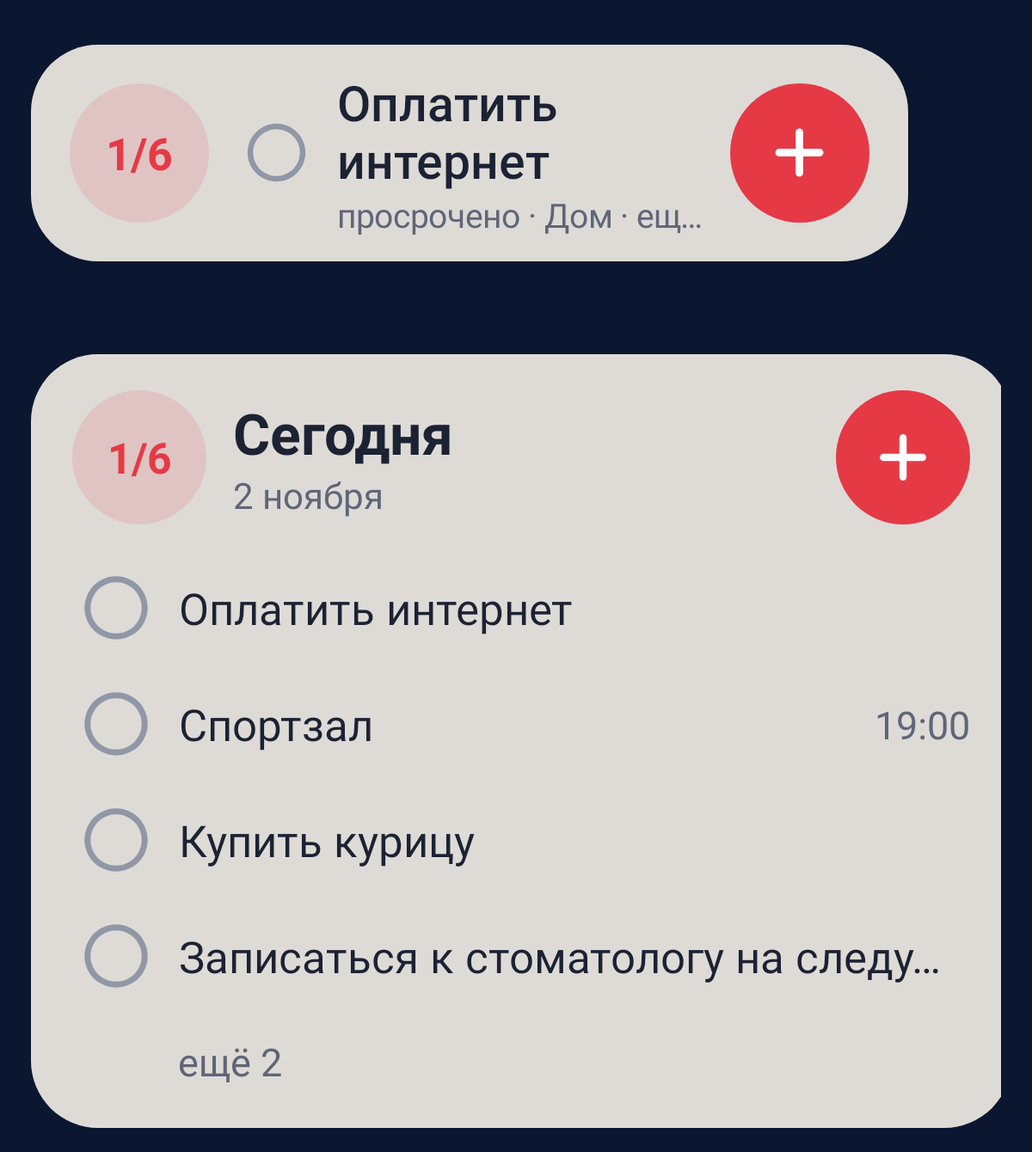
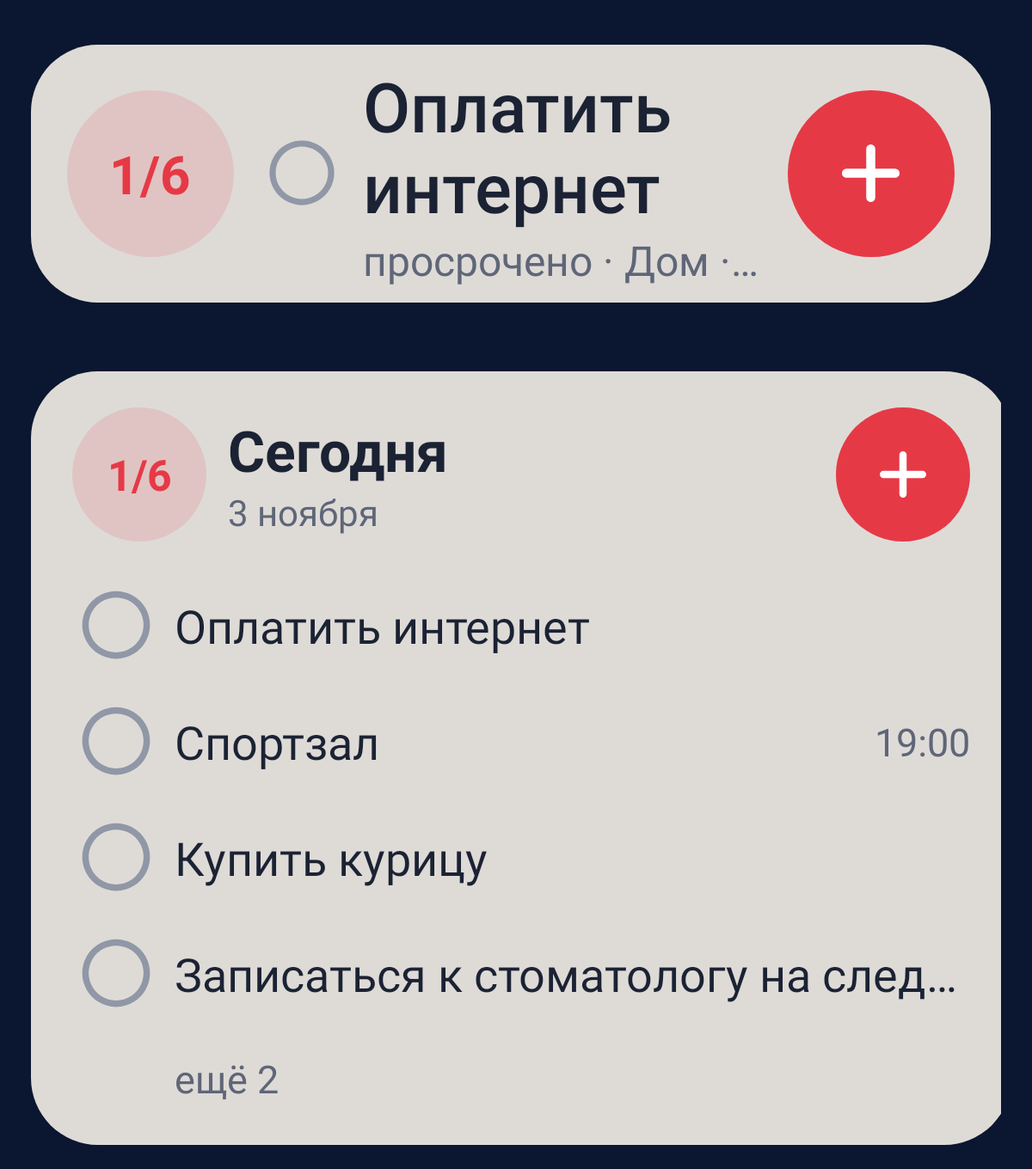
Version 1.0.2: widget self-refresh, bigger title, snooze test

diff --git a/app/src/main/java/com/woody/planner/widget/WidgetText.kt b/app/src/main/java/com/woody/planner/widget/WidgetText.kt
@@ -5,50 +5,63 @@ internal data class TitleFit(val text: String, val size: Float, val lines: Int, 
 
 /**
  * Подбор кегля названия под место в виджете. Виджет не умеет мерить текст (это RemoteViews),
- * поэтому ширина считается по средней ширине буквы — с запасом, а остаток подстрахует многоточие.
+ * поэтому ширина считается по средней ширине буквы и по тому, как слова лягут по строкам,
+ * а остаток подстрахует многоточие.
  */
 internal object WidgetText {
     /** Длиннее — обрезаем по словам: на рабочем столе хватает сути. */
     const val MaxWords = 5
     private const val CharWidth = 0.58f
-    /** Высота строки TextView в долях кегля, с отступами шрифта — с запасом, чтобы низ не обрезался. */
-    private const val LineHeight = 1.3f
-    /** Перенос по словам оставляет пустоту в конце первой строки. */
-    private const val WrapSlack = 0.85f
+    /** Межстрочный интервал Roboto в долях кегля и отступы шрифта у блока текста (сверху и снизу вместе). */
+    private const val Line = 1.17f
+    private const val Padding = 0.2f
     private const val MinSize = 13f
+    private const val MaxLines = 3
 
     fun shorten(title: String): String {
         val words = title.trim().split(Regex("\\s+")).filter { it.isNotEmpty() }
         return if (words.size > MaxWords) words.take(MaxWords).joinToString(" ") + "…" else words.joinToString(" ")
     }
 
-    fun metaSize(size: Float): Float = (size * 0.68f).coerceIn(11f, 21f)
+    fun metaSize(size: Float): Float = (size * 0.6f).coerceIn(11f, 19f)
 
-    /** Самый крупный кегль, с которым название помещается в [width]×[height] dp. */
-    fun fit(title: String, width: Float, height: Float): TitleFit {
-        val text = shorten(title)
-        val max = (height * 0.4f).coerceIn(15f, 32f)
-        // Короткое — одной строкой и крупно; длинное — в две строки; подпись (время, категория)
-        // убираем только если иначе название не помещается.
-        val attempts = listOf(
-            Attempt(lines = 1, meta = true, min = max * 0.8f),
-            Attempt(lines = 2, meta = true, min = MinSize),
-            Attempt(lines = 1, meta = true, min = MinSize),
-            Attempt(lines = 2, meta = false, min = MinSize),
-        )
-        for (attempt in attempts) {
-            var size = max
-            while (size >= attempt.min) {
-                val perLine = width / (size * CharWidth)
-                val capacity = if (attempt.lines == 1) perLine else perLine * 2 * WrapSlack
-                val needed = attempt.lines * size * LineHeight + if (attempt.meta) metaSize(size) * LineHeight else 0f
-                if (text.length <= capacity && needed <= height) return TitleFit(text, size, attempt.lines, metaSize(size), attempt.meta)
-                size -= 0.5f
-            }
+    /** Высота блока текста из [lines] строк кеглем [size]. */
+    private fun blockHeight(lines: Int, size: Float) = size * (Line * lines + Padding)
+
+    /** Самая длинная строка (в символах) при лучшей раскладке слов на [lines] строк. */
+    internal fun longestLine(words: List<String>, lines: Int): Int {
+        fun len(from: Int, to: Int) = words.subList(from, to).sumOf { it.length } + (to - from - 1)
+        val n = words.size
+        return when {
+            lines <= 1 || n <= 1 -> len(0, n)
+            lines == 2 || n == 2 -> (1 until n).minOf { i -> maxOf(len(0, i), len(i, n)) }
+            else -> (1 until n - 1).minOf { i -> (i + 1 until n).minOf { j -> maxOf(len(0, i), len(i, j), len(j, n)) } }
         }
-        val lines = if (2 * MinSize * LineHeight <= height) 2 else 1
-        return TitleFit(text, MinSize, lines, metaSize(MinSize), meta = false)
     }
 
-    private class Attempt(val lines: Int, val meta: Boolean, val min: Float)
+    /** Самый крупный кегль, с которым название (и по возможности подпись) помещается в [width]×[height] dp. */
+    fun fit(title: String, width: Float, height: Float): TitleFit {
+        val text = shorten(title)
+        val words = text.split(" ")
+        val max = (height * 0.5f).coerceIn(15f, 40f)
+        var best: TitleFit? = null
+        // Подпись (время, категория) нужна — без неё обходимся, только если иначе название совсем не влезает.
+        for (meta in listOf(true, false)) {
+            for (lines in 1..minOf(MaxLines, words.size)) {
+                val longest = longestLine(words, lines)
+                var size = minOf(max, width / (longest * CharWidth))
+                while (size >= MinSize) {
+                    val needed = blockHeight(lines, size) + if (meta) blockHeight(1, metaSize(size)) else 0f
+                    if (needed <= height) break
+                    size -= 0.5f
+                }
+                if (size < MinSize) continue
+                val candidate = TitleFit(text, size, lines, metaSize(size), meta)
+                // Строк поменьше, если кегль почти тот же: «Купить хлеб» одной строкой лучше двух.
+                if (best == null || size > best.size * 1.08f) best = candidate
+            }
+            if (best != null) return best
+        }
+        return TitleFit(text, MinSize, if (blockHeight(2, MinSize) <= height) 2 else 1, metaSize(MinSize), meta = false)
+    }
 }

diff --git a/app/src/main/java/com/woody/planner/widget/WidgetUpdater.kt b/app/src/main/java/com/woody/planner/widget/WidgetUpdater.kt
@@ -102,7 +102,13 @@ object WidgetUpdater {
         val widgetIds = ids ?: manager.getAppWidgetIds(ComponentName(app, TodayWidgetReceiver::class.java))
         if (widgetIds.isEmpty()) return@withLock
         widgetIds.forEach { id ->
-            runCatching { manager.updateAppWidget(id, render(app, id, sizesOf(manager.getAppWidgetOptions(id)))) }
+            val sizes = sizesOf(manager.getAppWidgetOptions(id))
+            runCatching { manager.updateAppWidget(id, render(app, id, sizes)) }
+                .recoverCatching {
+                    // Запасной путь: один размер вместо набора — пусть мельче, но виджет не останется пустым.
+                    Log.w("Woody", "widget $id: sized views failed", it)
+                    manager.updateAppWidget(id, render(app, id, sizes.take(1)))
+                }
                 .onFailure { Log.w("Woody", "widget $id", it) }
         }
         scheduleMidnight(app)
@@ -154,18 +160,24 @@ object WidgetUpdater {
     }
 
     private val DefaultSize = DpSize(250.dp, 64.dp)
-    private const val LadderSteps = 4
+    private const val LadderSteps = 3
     /** Не больше 10 вариантов: каждый — отдельная отрисовка и место в памяти лаунчера. */
     private const val MaxSizes = 10
 
     /**
-     * Будильник без пробуждения (RTC): в полночь телефон не будится — виджет перерисуется,
-     * как только экран включат. Это ноль лишних пробуждений.
+     * Следующая перерисовка — в полночь (новый день) или через [RefreshEveryMs], что раньше. Будильник
+     * без пробуждения (RTC): спящий телефон не будится, виджет обновится, когда экран включат, — ноль лишних
+     * пробуждений. Частая перерисовка нужна прошивкам вроде vivo: они не пускают к «уснувшему» приложению
+     * обычные сигналы обновления, и пересозданный лаунчером виджет иначе оставался бы пустым до запуска приложения.
      */
     fun scheduleMidnight(context: Context) {
-        val at = LocalDate.now().plusDays(1).atStartOfDay(ZoneId.systemDefault()).toInstant().toEpochMilli() + 30_000
+        val now = System.currentTimeMillis()
+        val midnight = LocalDate.now().plusDays(1).atStartOfDay(ZoneId.systemDefault()).toInstant().toEpochMilli() + 30_000
+        val at = minOf(midnight, now + RefreshEveryMs)
         context.getSystemService(AlarmManager::class.java).set(AlarmManager.RTC, at, midnightIntent(context))
     }
+
+    private const val RefreshEveryMs = 3 * 60 * 60 * 1000L
 
     fun cancelMidnight(context: Context) {
         context.getSystemService(AlarmManager::class.java).cancel(midnightIntent(context))

diff --git a/app/src/main/java/com/woody/planner/widget/TodayWidget.kt b/app/src/main/java/com/woody/planner/widget/TodayWidget.kt
@@ -118,14 +118,15 @@ private val TimeFormat = DateTimeFormatter.ofPattern("HH:mm")
  */
 private class Metrics(size: DpSize, private val fontScale: Float) {
     val tall = size.height >= TodayWidget.Tall.height
-    val padH = if (tall) 16.dp else (size.height * 0.16f).coerceIn(10.dp, 18.dp)
-    val padV = if (tall) 14.dp else (size.height * 0.07f).coerceIn(3.dp, 10.dp)
+    val padH = if (tall) 16.dp else (size.height * 0.14f).coerceIn(10.dp, 16.dp)
+    val padV = if (tall) 14.dp else (size.height * 0.05f).coerceIn(3.dp, 8.dp)
     private val inner = size.height - padV * 2
 
     /** Кружок-счётчик и «+». */
-    val button = if (tall) 52.dp else (inner * 0.86f).coerceIn(36.dp, 84.dp)
-    val check = if (tall) 34.dp else button * 0.52f
-    val gap = (button * 0.2f).coerceIn(8.dp, 12.dp)
+    // Кнопки — заметные, но основное место — названию задачи.
+    val button = if (tall) 52.dp else (inner * 0.72f).coerceIn(36.dp, 72.dp)
+    val check = if (tall) 34.dp else button * 0.5f
+    val gap = (button * 0.16f).coerceIn(6.dp, 12.dp)
     val checkGap = gap * 0.7f
 
     /** Место под название ближайшей задачи в однострочном виджете. */
@@ -264,7 +265,8 @@ private fun TaskRow(item: TaskItem, palette: WidgetPalette, m: Metrics, height: 
             WidgetText.shorten(item.title),
             style = TextStyle(
                 color = if (item.done) palette.tertiary else palette.text,
-                fontSize = m.sp(17f),
+                // Строки выше — текст крупнее.
+                fontSize = m.sp((height.value * 0.4f).coerceIn(15f, 21f)),
                 textDecoration = if (item.done) TextDecoration.LineThrough else TextDecoration.None,
             ),
             maxLines = 1,

diff --git a/app/src/test/java/com/woody/planner/reminders/ReminderFlowTest.kt b/app/src/test/java/com/woody/planner/reminders/ReminderFlowTest.kt
@@ -160,6 +160,33 @@ class ReminderFlowTest {
     }
 
     @Test
+    fun snoozedReminderFiresAndPostsNotification() {
+        val at = LocalDateTime.now().plusMinutes(30).withSecond(0).withNano(0)
+        val id = runBlocking {
+            app.container.repository.save(
+                TaskDraft(title = "Отложенная", date = at.toLocalDate(), time = at.toLocalTime(), reminderOffsetMin = 10),
+            )
+        }
+        // Кнопка «Отложить» в уведомлении — как её нажимает пользователь.
+        ReminderReceiver().onReceive(
+            app,
+            android.content.Intent(app, ReminderReceiver::class.java)
+                .setAction(ReminderReceiver.ACTION_SNOOZE)
+                .putExtra(ReminderReceiver.EXTRA_TASK_ID, id)
+                .putExtra(ReminderReceiver.EXTRA_EPOCH_DAY, at.toLocalDate().toEpochDay()),
+        )
+        waitFor { alarms.scheduledAlarms.size == 2 }
+        val snoozed = alarms.scheduledAlarms.minBy { it.triggerAtTime }
+        val expected = System.currentTimeMillis() + 15 * 60_000L
+        assertTrue(kotlin.math.abs(snoozed.triggerAtTime - expected) < 60_000)
+        snoozed.operation!!.send()
+        waitFor { notifications.activeNotifications.isNotEmpty() }
+        val title = notifications.activeNotifications.single().notification.extras.getCharSequence("android.title").toString()
+        assertTrue(title, title.contains("Отложенная"))
+        notifications.cancelAll()
+    }
+
+    @Test
     fun doneOnNotificationOfDeletedTaskIsIgnored() {
         val at = LocalDateTime.now().plusMinutes(30).withSecond(0).withNano(0)
         val id = runBlocking {

diff --git a/app/src/test/java/com/woody/planner/widget/WidgetTextTest.kt b/app/src/test/java/com/woody/planner/widget/WidgetTextTest.kt
@@ -23,6 +23,24 @@ class WidgetTextTest {
     }
 
     @Test
+    fun oneOrTwoWordsAreBigInATallerWidget() {
+        // Однострочный виджет на телефоне владельца (~372×100 dp): место под название ~160×92.
+        val word = WidgetText.fit("Хлеб", 160f, 92f)
+        assertTrue("кегль ${word.size}", word.size >= 30f)
+        assertTrue(word.meta)
+        val two = WidgetText.fit("Забрать машину", 160f, 92f)
+        assertTrue("кегль ${two.size}", two.size >= 24f)
+        assertTrue(two.meta)
+    }
+
+    @Test
+    fun wordsAreSplitIntoBalancedLines() {
+        assertEquals(7, WidgetText.longestLine(listOf("Забрать", "машину"), 2))
+        assertEquals(14, WidgetText.longestLine(listOf("Забрать", "машину"), 1))
+        assertEquals(9, WidgetText.longestLine(listOf("Позвонить", "маме", "и", "спросить"), 3))
+    }
+
+    @Test
     fun longerTitleWrapsAndShrinks() {
         val short = WidgetText.fit("Забрать машину", width, height)
         val long = WidgetText.fit("Позвонить маме и спросить про выходные", width, height)

diff --git a/HANDOFF.md b/HANDOFF.md
@@ -59,12 +59,12 @@ app/src/main/java/com/woody/planner/
 
 ### Виджет «Сегодня»
 - `widget/TodayWidget` (Glance): 5×1 — ровно строка под поисковой строкой лаунчера: счётчик «сделано/всего», ближайшая задача с кружком «готово» (нажатие отмечает задачу прямо с рабочего стола), «+» (открывает приложение сразу с новой задачей, `MainActivity.EXTRA_NEW_TASK`). Растянутый вверх — заголовок и столько задач, сколько помещается, плюс «ещё N» (обычная колонка, не прокручиваемый список: так одинаково на всех прошивках и проверяемо в тестах).
-- **Размеры.** Всё считается от реального размера (`Metrics`): в одну строку кнопки-кружки — 86% высоты (36–84 dp), кружок «готово» — 52% от них, остальная ширина — названию. Название (`WidgetText.fit`) — не длиннее 5 слов (дальше «…»), кегль подбирается по оценке ширины букв (RemoteViews не умеет мерить текст): короткое — одной строкой крупно, длиннее — в две строки, подпись (время · категория) убирается, только если иначе не влезает. Кегль переводится в sp с делением на системный масштаб шрифта — подобранная вёрстка не ломается крупным шрифтом. Тесты — `WidgetTextTest`, скриншоты `widget_phone*`.
+- **Размеры.** Всё считается от реального размера (`Metrics`): в одну строку кнопки-кружки — 72% высоты (36–72 dp), кружок «готово» — 50% от них, остальная ширина — названию. Название (`WidgetText.fit`) — не длиннее 5 слов (дальше «…»), кегль до 50% высоты (≤ 40): RemoteViews не умеет мерить текст, поэтому ширина считается по средней ширине буквы (0.58 кегля) для лучшей раскладки слов на 1–3 строки (`longestLine`), высота — 1.17 кегля на строку + 0.2 на отступы шрифта; из вариантов берётся самый крупный кегль, при почти равном — меньше строк. Подпись (время · категория, 0.6 кегля) убирается, только если иначе название не влезает. В растянутом виджете строки делят всю высоту, кегль — 40% высоты строки. Кегль переводится в sp с делением на системный масштаб шрифта — подобранная вёрстка не ломается крупным шрифтом. Тесты — `WidgetTextTest`, скриншоты `widget_phone*`.
 - **Как рисуется.** `TodayWidgetReceiver` — обычный `AppWidgetProvider`, не `GlanceAppWidgetReceiver`. `WidgetUpdater.updateNow` для каждого виджета берёт размеры из `OPTION_APPWIDGET_SIZES` (или min/max), вызывает `TodayWidget().compose(context, getGlanceIdBy(id), size)` (`AppWidgetId(...)` напрямую — RestrictedApi, lint не пропустит) под каждый размер и отдаёт `RemoteViews(Map<SizeF, RemoteViews>)` в `AppWidgetManager.updateAppWidget` — всё внутри `goAsync()` за доли секунды. Сессии Glance (`update`/`updateAll`, `actionRunCallback`, лямбды в `onClick`) **не использовать**: они идут через WorkManager, а на vivo (OriginOS 7 — телефон владельца) Glance вдобавок сам отправляет работу приёмника в WorkManager (`maybeLaunchAsyncRequestWorker`: проверка `Build.MANUFACTURER == "vivo"`), а прошивка его не запускает — в 0.9 виджет из-за этого навсегда оставался кружком загрузки. Кружок «готово» — `actionSendBroadcast` в тот же приёмник (`ACTION_TOGGLE`). `initialLayout` — свой `widget_initial` («Woody» на фоне), а не загрузка Glance. При каждом запуске приложения виджет перерисовывается.
-- Обновляется только по событиям: любое изменение задач (`TaskRepository.onChanged` → `WidgetUpdater.refresh`), смена языка/темы/цветов, смена даты/времени. В полночь — будильник `RTC` **без пробуждения**: виджет перерисуется, когда включат экран. Если виджета нет — ничего не делается. Цвета — те же, что в приложении (`woodyColors`), день/ночь по теме.
+- Обновляется по событиям: любое изменение задач (`TaskRepository.onChanged` → `WidgetUpdater.refresh`), смена языка/темы/цветов, смена даты/времени, запуск приложения. Плюс будильник `RTC` **без пробуждения** на полночь или через 3 часа, что раньше (`scheduleMidnight`): спящий телефон не будится, виджет перерисуется, когда включат экран. Частая перерисовка — из-за vivo: через сутки виджет стал прозрачным (1.0.1). Причина точно не установлена; вероятно, прошивка не пропускает сигналы обновления к «уснувшему» приложению, а лаунчер пересоздал виджет. Если пропадёт снова — открыть приложение (перерисует) и проверить «Автозапуск» для Woody. Если набор размеров не принимается, `updateNow` отдаёт один размер. `initialLayout` (`widget_initial`) — с цветами под светлую/тёмную тему. Если виджета нет — ничего не делается. Цвета — те же, что в приложении (`woodyColors`), день/ночь по теме.
 
 ### Батарея и точность напоминаний
-Нет своих сервисов, периодической работы, сети и wake lock. (Библиотека Glance тянет WorkManager, но приложение его не использует: виджет рисуется прямо в приёмнике.) Для задачи с напоминанием ставится один будильник на ближайшее срабатывание, после него — следующий: телефон просыпается на долю секунды только в нужную минуту. Это и есть компромисс точность/батарея: неточные будильники на современных Android могут опаздывать на десятки минут, а экономят практически ничего.
+Нет своих сервисов, сети, wake lock и пробуждений по расписанию (единственный повторяющийся будильник — перерисовка виджета, и он без пробуждения: срабатывает, только когда телефон и так не спит). (Библиотека Glance тянет WorkManager, но приложение его не использует: виджет рисуется прямо в приёмнике.) Для задачи с напоминанием ставится один будильник на ближайшее срабатывание, после него — следующий: телефон просыпается на долю секунды только в нужную минуту. Это и есть компромисс точность/батарея: неточные будильники на современных Android могут опаздывать на десятки минут, а экономят практически ничего.
 - **«Как будильник»** (по умолчанию включено, `alarm_clock_reminders`): будильник ставится через `setAlarmClock` — его не откладывает Doze и не отменяют «оптимизаторы» прошивок; цена — значок будильника в строке состояния. Выключено — `setExactAndAllowWhileIdle`. Введено в 0.6: у владельца напоминания не приходили при закрытом приложении.
 - **Прошивки Xiaomi / Huawei / Oppo / Vivo** (`OemPower`): смахивание из недавних «замораживает» приложение, и без автозапуска будильники не доходят. В настройках для них появляется строка «Автозапуск» (открывает экран прошивки; на Xiaomi состояние читается скрытой операцией MIUI 10008, иначе — серая точка), а «Без ограничений» на Xiaomi открывает экран MIUI «Нет ограничений»: системный запрос `REQUEST_IGNORE_BATTERY_OPTIMIZATIONS` MIUI откатывает через несколько секунд (именно это видел владелец).
 - **«Для новых задач»** (по умолчанию выключено, `default_reminder_minutes`: 0/10/30/60): новый черновик получает `TaskDraft.defaultReminder`; `effectiveReminder` = выбранное вручную, иначе значение по умолчанию — **только если у задачи есть время** (иначе каждая задача без времени звенела бы в 9:00). Ручной выбор в окне «Напоминание» сбрасывает `defaultReminder`. Сохраняется `effectiveReminder`. Включение в настройках просит разрешение на уведомления.
@@ -109,7 +109,7 @@ app/src/main/java/com/woody/planner/
 - `ui/InteractionTest` также: перетаскивание меняет порядок (и он сохраняется в базе), бросок на день ленты переносит задачу, удержание без движения открывает редактор; «Купить хлеб завтра в 18» сохраняется как «Купить хлеб» на завтра в 18:00, крестик отменяет распознавание; двойное касание по пустому месту открывает новую задачу (одно — нет), переключение языка меняет весь интерфейс сразу (и стартовые категории), переключатель «Как будильник», набранное название переживает окна параметров и пересоздание экрана, а после окон экран остаётся нажимаемым.
 - `reminders/ReminderFlowTest` — цепочка напоминания: один будильник-часы на нужную минуту → срабатывание → уведомление в канале со звуком; режим без будильника-часов; пробное напоминание; язык уведомления и канала; «Если не выполнено» выключено по умолчанию и не беспокоит выполненную задачу; отложенное напоминание переживает `rescheduleAll`; «Готово» на удалённой задаче; напоминание с прошедшим «за N минут» — во время задачи.
 - `screenshots/ScreenshotTest` — экраны, окна параметров, раскрытие настроек, карточка напоминаний, английский интерфейс (`en_*`), раскрытие длинного названия, покадровые свайпы (в том числе «Книжка» за верхний и нижний угол), перетаскивание (`drag_*`), подсказка распознавания (`quick_input`), Material You (`material_you_*`) и виджет в одну строку и растянутый (`widget_row`, `widget_tall`) (только с `-Pscreenshots`). Тексты меряются по-настоящему только здесь (`GraphicsMode.NATIVE`), поэтому проверки, зависящие от переноса строк, живут в этом классе.
-- Всего: 67 обычных тестов и 27 скриншотных (`settings_default_reminder` — переключатель «Для новых задач»). Список задач читается из базы в фоне — перед жестами тесты ждут появления карточки (`awaitText` / `waitUntil`), иначе они «мигают». Плитки «Напоминание», «Повтор», «Чек-лист» во время ввода спрятаны за «Дополнительно».
+- Всего: 71 обычный тест и 27 скриншотных (`settings_default_reminder` — переключатель «Для новых задач»). Список задач читается из базы в фоне — перед жестами тесты ждут появления карточки (`awaitText` / `waitUntil`), иначе они «мигают». Изредка на Windows падает тест с `IOException: Unable to rename …settings.preferences_pb.tmp` (DataStore соседнего теста) — это сбой окружения, повторный прогон проходит. Плитки «Напоминание», «Повтор», «Чек-лист» во время ввода спрятаны за «Дополнительно».
 
 ## Релиз
 1. Поднять `versionCode`/`versionName` в `app/build.gradle.kts`.
@@ -130,6 +130,7 @@ Release подписан **debug-ключом** из `.toolchain/android-user-ho
 - **0.8** — «Книжка» как настоящий загиб страницы, напоминание «Если не выполнено» (в настройках, выключено по умолчанию), новая задача двойным касанием, полный текст длинных задач, более плавное сворачивание листа.
 - **0.9** — виджет «Сегодня» (5×1 и выше), ввод обычным языком, перетаскивание задач (порядок и перенос на день), цвета Material You, профиль запуска.
 - **0.91** — виджет рисуется без WorkManager (на vivo OriginOS висел на загрузке), напоминание по умолчанию для новых задач со временем.
+- **1.0.2** — виджет перерисовывается каждые 3 часа без пробуждения (пропадал через сутки на vivo), запасная отрисовка одним размером, стартовый вид под тёмную тему; название в виджете крупнее (раскладка слов по 1–3 строкам, кнопки меньше); тест цепочки «Отложить → уведомление».
 - **1.0.1** — виджет на всю высоту: кнопки до 84 dp, кегль до 32, варианты размеров выше сообщённого лаунчером.
 - **1.0** — «через 30 минут / 2 часа» в названии; виджет заполняет всё место (размеры от высоты, название до 5 слов с подбором кегля); общая проверка кода и исправления: отложенное напоминание больше не теряется, «Готово» на удалённой задаче не роняет приложение, напоминание с прошедшим «за N минут» приходит во время задачи, проверка «не выполнено» после полуночи; разбор фраз («утром в 6», «в 2 этапа», «2.5%», «с днём рождения»); интерфейс — день после полуночи, повторное открытие редактора при повороте, распознанная фраза при повороте, ключи пунктов чек-листа, «застрявшая» раскрытая карточка, многоточия у длинных категорий и подсказки, статусы настроек на крупном шрифте, счётчик в кольце, выбор дня во время прокрутки страниц.
 
